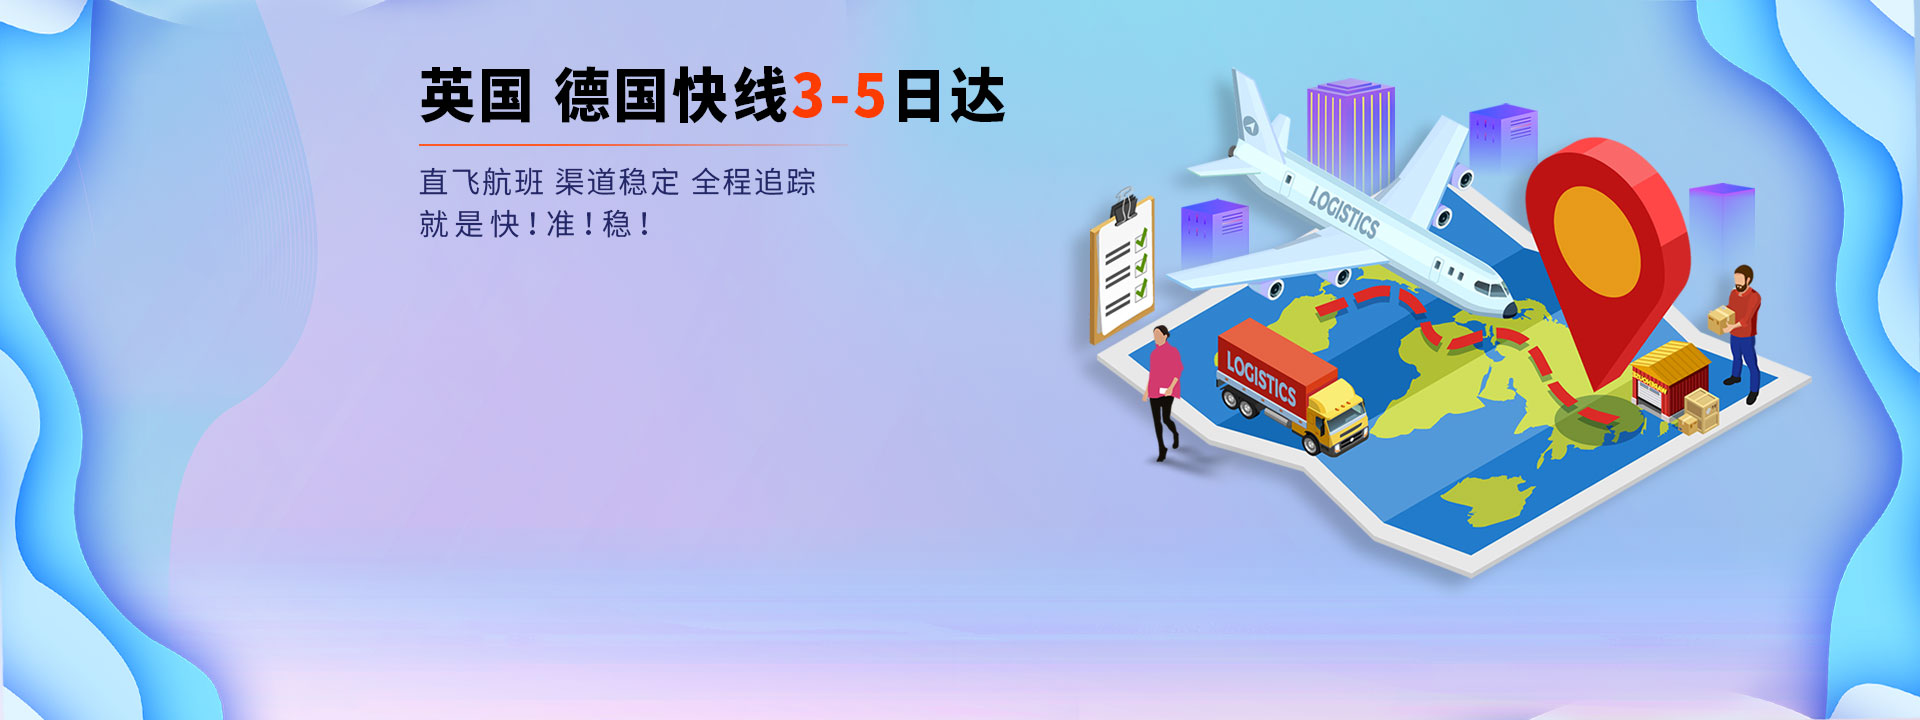
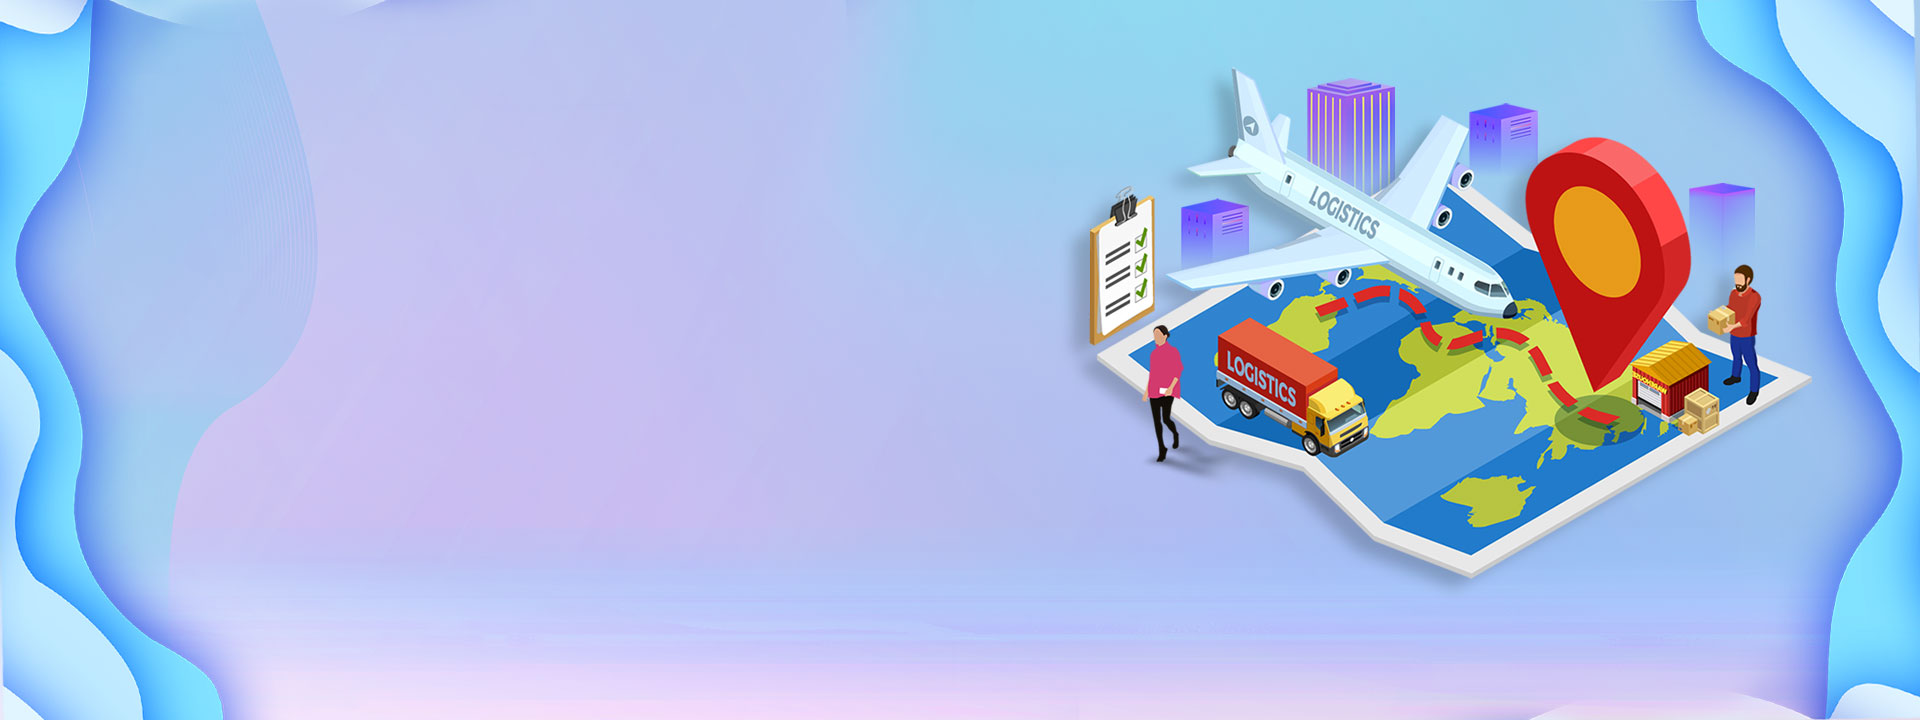
修改

Changed region(s): [[0.2188, 0.0917, 0.5312, 0.1833], [0.2188, 0.2139, 0.4375, 0.3361]]

diff --git a/application/admin/view/info/article.html b/application/admin/view/info/article.html
@@ -144,7 +144,7 @@
  </div>
  <script>
      layui.use(['layer', 'jquery'], function() {
-         $('.edt').click(function () {
+         $('.edt').on('click',function () {
              var id = $(this).attr('data-id');
              var url = "{{:url('Info/article_edt')}}"+"?id="+id;
              //open_layer('600px','400px','文章修改',url)
@@ -162,7 +162,7 @@
              })
          })
 
-         $('.add').click(function () {
+         $('.add').on('click',function () {
              var url = "{{:url('Info/article_add')}}";
              //open_layer('600px','400px','文章修改',url)
              layer.open({
@@ -178,7 +178,7 @@
                  content: url//'{:url("finance/detail_product")}' + "?order_no=" + data.order_no
              })
          })
-         $('.del').click(function () {
+         $('.del').on('click',function () {
              var id = $(this).attr('data-id');
              layer.confirm('确定删除该文章吗？',
                  {title: '文章删除', btn: ['确认', '取消'],},

diff --git a/public/static/home/css/theme.css b/public/static/home/css/theme.css
@@ -1940,6 +1940,19 @@ label.error {
 .exit_cx_other li:nth-child(3):after{display: block; content: ''; position: absolute; left: 140px; top:20px; width: 58px; height: 1px; background: #333;}
 .exit_cx_other a:hover{color: #fd3c00;}
 .exit_cx_other i{font-style: normal; padding: 0px 5px;}
+.ind_banner_fonts{position: absolute; top: 52px; left: 21.5%;}
+@media (max-width:1500px){
+  .ind_banner_fonts{left: 13%;}
+  .ind_query{left: 13%;}
+}
+@media (max-width:1300px){
+  .ind_banner_fonts{left: 9%;}
+  .ind_query{left: 9%;}
+}
+@media (max-width:1170px){
+  .ind_banner_fonts{left: 7%;}
+  .ind_query{left: 7%;}
+}
 /********banner上运价查询*******/
 
 
@@ -2046,6 +2059,7 @@ label.error {
 /******底部账号注册*******/
 .cegistration_main{background: #e13f0d;}
 .cegistration_main p{
+    margin:0px;
 	color: #ffffff;
     font-size: 26px;
     padding: 63px 0 64px 70px;

diff --git a/application/home/view/index/index.html b/application/home/view/index/index.html
@@ -11,6 +11,7 @@
 
     <!--Slide-->
     <div class="item mask" style="background: url(__HOME_SC__/images/product/ind_banner.jpg) no-repeat center top / cover; position: relative;">
+        <div class="ind_banner_fonts"><img src="__HOME_SC__/images/product/ind_banner_fonts.png"></div>
         <!--运价查询开始-->
         <div class="ind_query">
             <div class="ind_query_title">价格查询</div>
